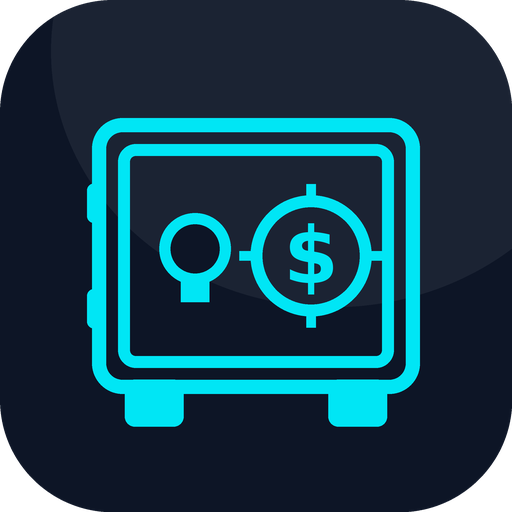
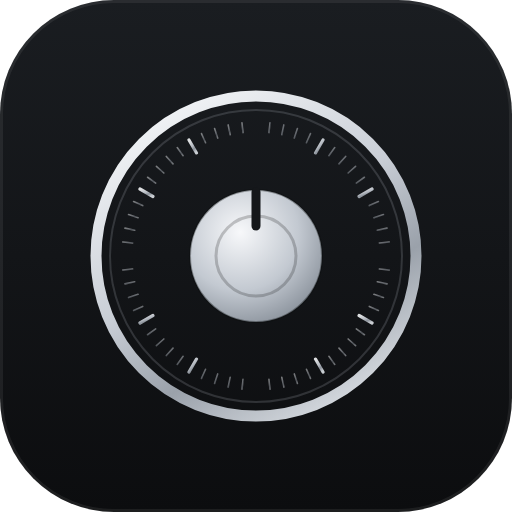
v3.12: yeni premium loqo və brend yazısı
- Loqo: qrafit fonda gümüşü metal seyf çarxı (tətbiqin rəng sistemi ilə eyni)
- Bütün ikonlar yeniləndi (192, 512, maskable 192/512)
- Başlıq və giriş ekranı: "SAFE MONEY" aralıqlı yazı
- Giriş ekranında izah mətni səliqəyə salındı

Claude-Session: https://claude.ai/code/session_011q35v4qcPtkrBhHAGwtmLK

diff --git a/index.html b/index.html
@@ -29,8 +29,8 @@
      DOM-da cihaz kilidindən ƏVVƏL yerləşir ki, ikisi də aktiv olsa cihaz kilidi üstdə qalsın. -->
 <div class="lock-screen" id="googleGirisEkrani">
   <div class="lock-box">
-    <img src="icon-192.png" alt="Safe Money" style="width:64px; height:64px; border-radius:16px; margin-bottom:10px;">
-    <h2>Safe Money</h2>
+    <img src="icon-192.png" alt="" class="brand-logo brand-logo-lg" width="76" height="76">
+    <h2 class="brand-wordmark brand-wordmark-lg">Safe Money</h2>
     <p data-i18n="giris.davamEtmekUcunEmail" class="hint" id="emailGirisHint">Davam etmək üçün e-poçt və şifrənlə daxil ol. Məlumatların yalnız sənin hesabında saxlanılacaq.</p>
     <input type="email" id="emailGirisEmail" placeholder="E-poçt" data-i18n-placeholder="giris.ePoctPlaceholder" autocomplete="username" style="width:100%; margin-bottom:8px; box-sizing:border-box;">
     <input type="password" id="emailGirisSifre" placeholder="Şifrə (ən azı 6 simvol)" data-i18n-placeholder="giris.sifreEnAz6Placeholder" autocomplete="current-password" style="width:100%; margin-bottom:10px; box-sizing:border-box;">

diff --git a/sw.js b/sw.js
@@ -5,6 +5,7 @@
 
 // VACİB: Hər yeni versiya buraxdıqda bu adı artır (v3 → v4 → v5 ...).
 // Bu, köhnə keşin avtomatik təmizlənməsini təmin edir.
+// (v25: Yeni premium loqo (qrafit + gümüşü seyf çarxı) və 'SAFE MONEY' yazısı; ikonlar yeniləndi.)
 // (v24: Başlıqlar 3 dildə aydınlaşdırıldı (Borclar, Hesabat); 'Bu ay gündə orta' düzgün hesablanır.)
 // (v23: Son əməliyyatlar — kateqoriya və tarix aralığı filtri; keçmiş tarixə xərc düyməsi bura köçdü.)
 // (v22: Premium Graphite & Silver tema, SVG ikonlar; keçmiş günün xərcləri yalnız baxış; Ayarlar yenidən quruldu.)
@@ -22,7 +23,7 @@
 // (v10: dil faylları (lang/*.json) üçün network-first əlavə edildi.)
 // (v9: ad "Safe Money" olaraq dəyişdi və yeni logo əlavə edildi — köhnə keşlənmiş
 // ikonların/title-ın istifadəçilərdə qalmaması üçün versiya artırıldı.)
-const CACHE_ADI = 'safe-money-cache-v24';
+const CACHE_ADI = 'safe-money-cache-v25';
 
 const KESLENECEK_FAYLLAR = [
   './index.html',

diff --git a/js/app.js b/js/app.js
@@ -3,9 +3,9 @@ function appIskeletiOlustur() {
   const appEl = document.getElementById('app');
   if (!appEl) return;
   appEl.innerHTML = `
-    <div class="top" style="justify-content:center; align-items:center; gap:8px;">
-      <img src="icon-192.png" alt="Safe Money" style="width:28px; height:28px; border-radius:7px;">
-      <h1>Safe Money</h1>
+    <div class="top" style="justify-content:center; align-items:center; gap:10px;">
+      <img src="icon-192.png" alt="" class="brand-logo" width="30" height="30">
+      <h1 class="brand-wordmark">Safe Money</h1>
     </div>
     <div class="date-nav">
       <button class="date-nav-arrow" id="tarixGeriBtn" onclick="tarixDeyis(-1)" aria-label="‹">${ikon('sol', 18)}</button>

diff --git a/css/main.css b/css/main.css
@@ -296,3 +296,9 @@ body {
 .list-item button.sil:hover { color: var(--danger); }
 .empty-note { color: var(--muted); text-align: center; font-size: 13.5px; padding: 18px 0; margin: 0; }
 
+
+/* ==== Brend: loqo + yazı (v3.12) ==== */
+.brand-logo { width: 30px; height: 30px; border-radius: 8px; display: block; }
+.brand-logo-lg { width: 76px; height: 76px; border-radius: 19px; margin: 0 auto 16px; box-shadow: 0 10px 30px var(--shadow); }
+.brand-wordmark { font-size: 13px !important; font-weight: 600 !important; letter-spacing: 0.22em !important; text-transform: uppercase; color: var(--ink); margin: 0; }
+.brand-wordmark-lg { font-size: 16px !important; letter-spacing: 0.26em !important; margin-bottom: 8px !important; }

diff --git a/css/components.css b/css/components.css
@@ -298,3 +298,7 @@ select.filtr-inp { margin-bottom: 10px; }
 .filtr-tarix { display: grid; grid-template-columns: 1fr 1fr; gap: 8px; }
 .filtr-tarix > div { min-width: 0; }
 .filtr-netice { font-size: 12px; color: var(--muted); font-weight: 600; margin: 2px 2px 8px; font-variant-numeric: tabular-nums; }
+
+/* Giriş / qeydiyyat / kilid ekranlarında izah mətni */
+.lock-box .hint { font-size: 13px; color: var(--muted); line-height: 1.5; margin: 0 0 18px; }
+.lock-box input { margin-bottom: 10px; min-height: 42px; }

diff --git a/js/storage.js b/js/storage.js
@@ -1,5 +1,5 @@
 /* Safe Money — vəziyyət, yükləmə, yadda saxlama */
-const APP_VERSION = '3.11'; // hər yeni göndərilən html versiyasında əl ilə +1 artırılır
+const APP_VERSION = '3.12'; // hər yeni göndərilən html versiyasında əl ilə +1 artırılır
 let aktifDonem = 'gunluk';
 let goruntulenenTarix = new Date(); goruntulenenTarix.setHours(0, 0, 0, 0);
 let kategoriler = [];
